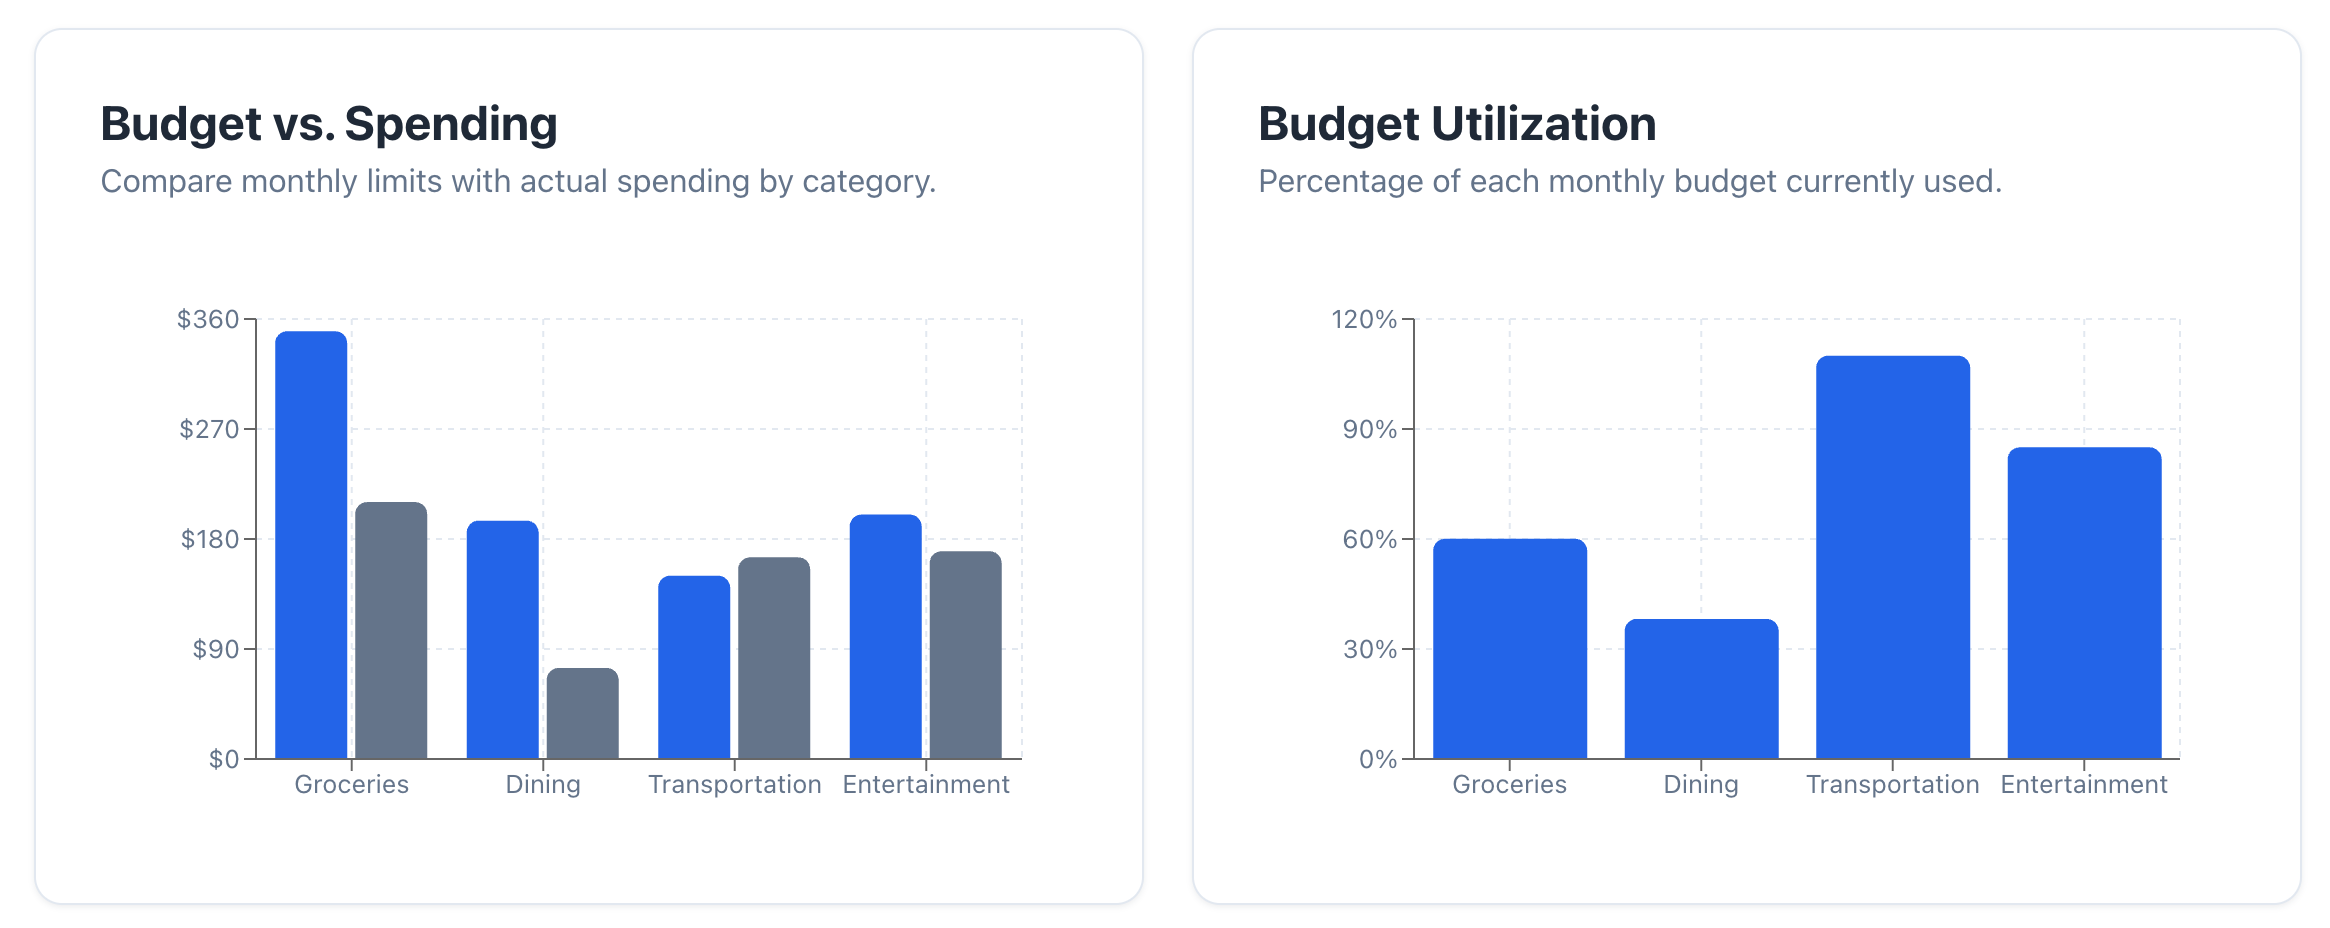
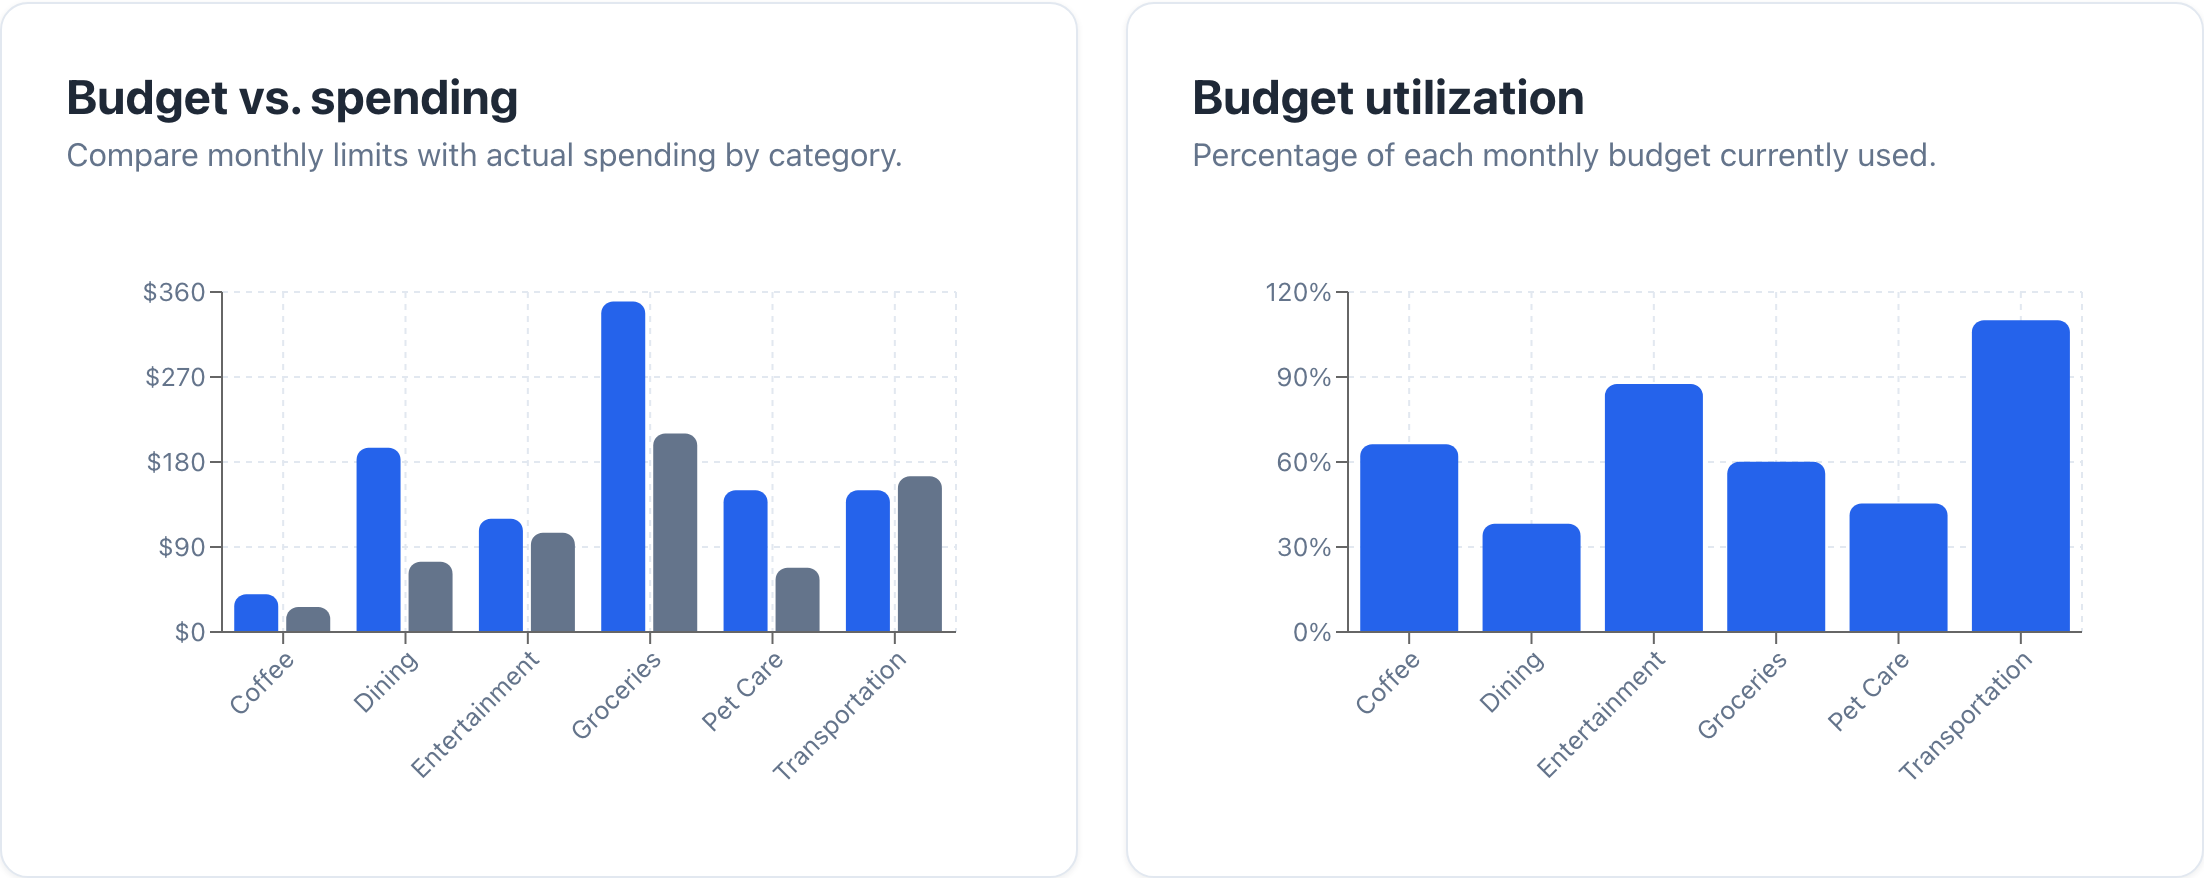
docs: refresh README screenshots for v1.3.0

diff --git a/README.md b/README.md
@@ -364,27 +364,33 @@ npm run test:coverage
 
 ### Dashboard
 
-The dashboard summarizes income, expenses, recent activity, category spending, and monthly budget performance.
+The dashboard summarizes income, expenses, recent activity, category spending, and monthly budget performance, with sidebar navigation to every page.
 
-<img src="assets/screenshots/dashboard.png" alt="FinTrack dashboard showing financial summaries, recent transactions, spending by category, and monthly budgets" width="1000">
+<img src="assets/screenshots/dashboard.png" alt="FinTrack dashboard with sidebar navigation, financial summaries, recent transactions with category icons, spending by category, and monthly budget cards" width="1000">
 
 ### Budget Analytics
 
-Budget comparison and utilization charts show spending progress across budget categories.
+Budget comparison and utilization charts show spending progress across budget categories, with every category labelled.
 
-<img src="assets/screenshots/budget-analytics.png" alt="FinTrack charts comparing monthly budgets with spending and showing budget utilization percentages" width="1000">
+<img src="assets/screenshots/budget-analytics.png" alt="FinTrack charts comparing monthly budget limits with spending and showing budget utilization percentages for six categories" width="1000">
 
 ### Budget Management
 
-Users can create monthly budgets, select reporting periods, review analytics, and monitor budget status.
+Users can create monthly budgets, select reporting periods, filter by category, review analytics, and monitor budget status.
 
-<img src="assets/screenshots/budgets.png" alt="FinTrack budget management page showing analytics and budget status cards" width="1000">
+<img src="assets/screenshots/budgets.png" alt="FinTrack budget management page showing the create form, period and category filters, analytics charts, and budget status cards" width="1000">
 
 ### Transaction Management
 
 Users can record, edit, delete, search, filter, sort, and paginate through income and expense transactions.
 
-<img src="assets/screenshots/transactions.png" alt="FinTrack transaction management page showing entry, filtering, and transaction history features" width="1000">
+<img src="assets/screenshots/transactions.png" alt="FinTrack transaction management page showing the add form, filters, and transaction history with category icons" width="1000">
+
+### Categories
+
+The Categories page shows how each built-in and custom category is used in a month: spending share, budget progress, activity, and warnings for spending without a budget.
+
+<img src="assets/screenshots/categories.png" alt="FinTrack categories page showing a monthly summary, a spending table with share bars, and category cards with budget status and no-budget warnings" width="1000">
 
 ---
 
@@ -589,7 +595,6 @@ The frontend runs at `http://localhost:5173`.
 ## Future Improvements
 
 - Code-split the frontend bundle by route
-- Add production monitoring and structured application metrics
 
 ---
 
